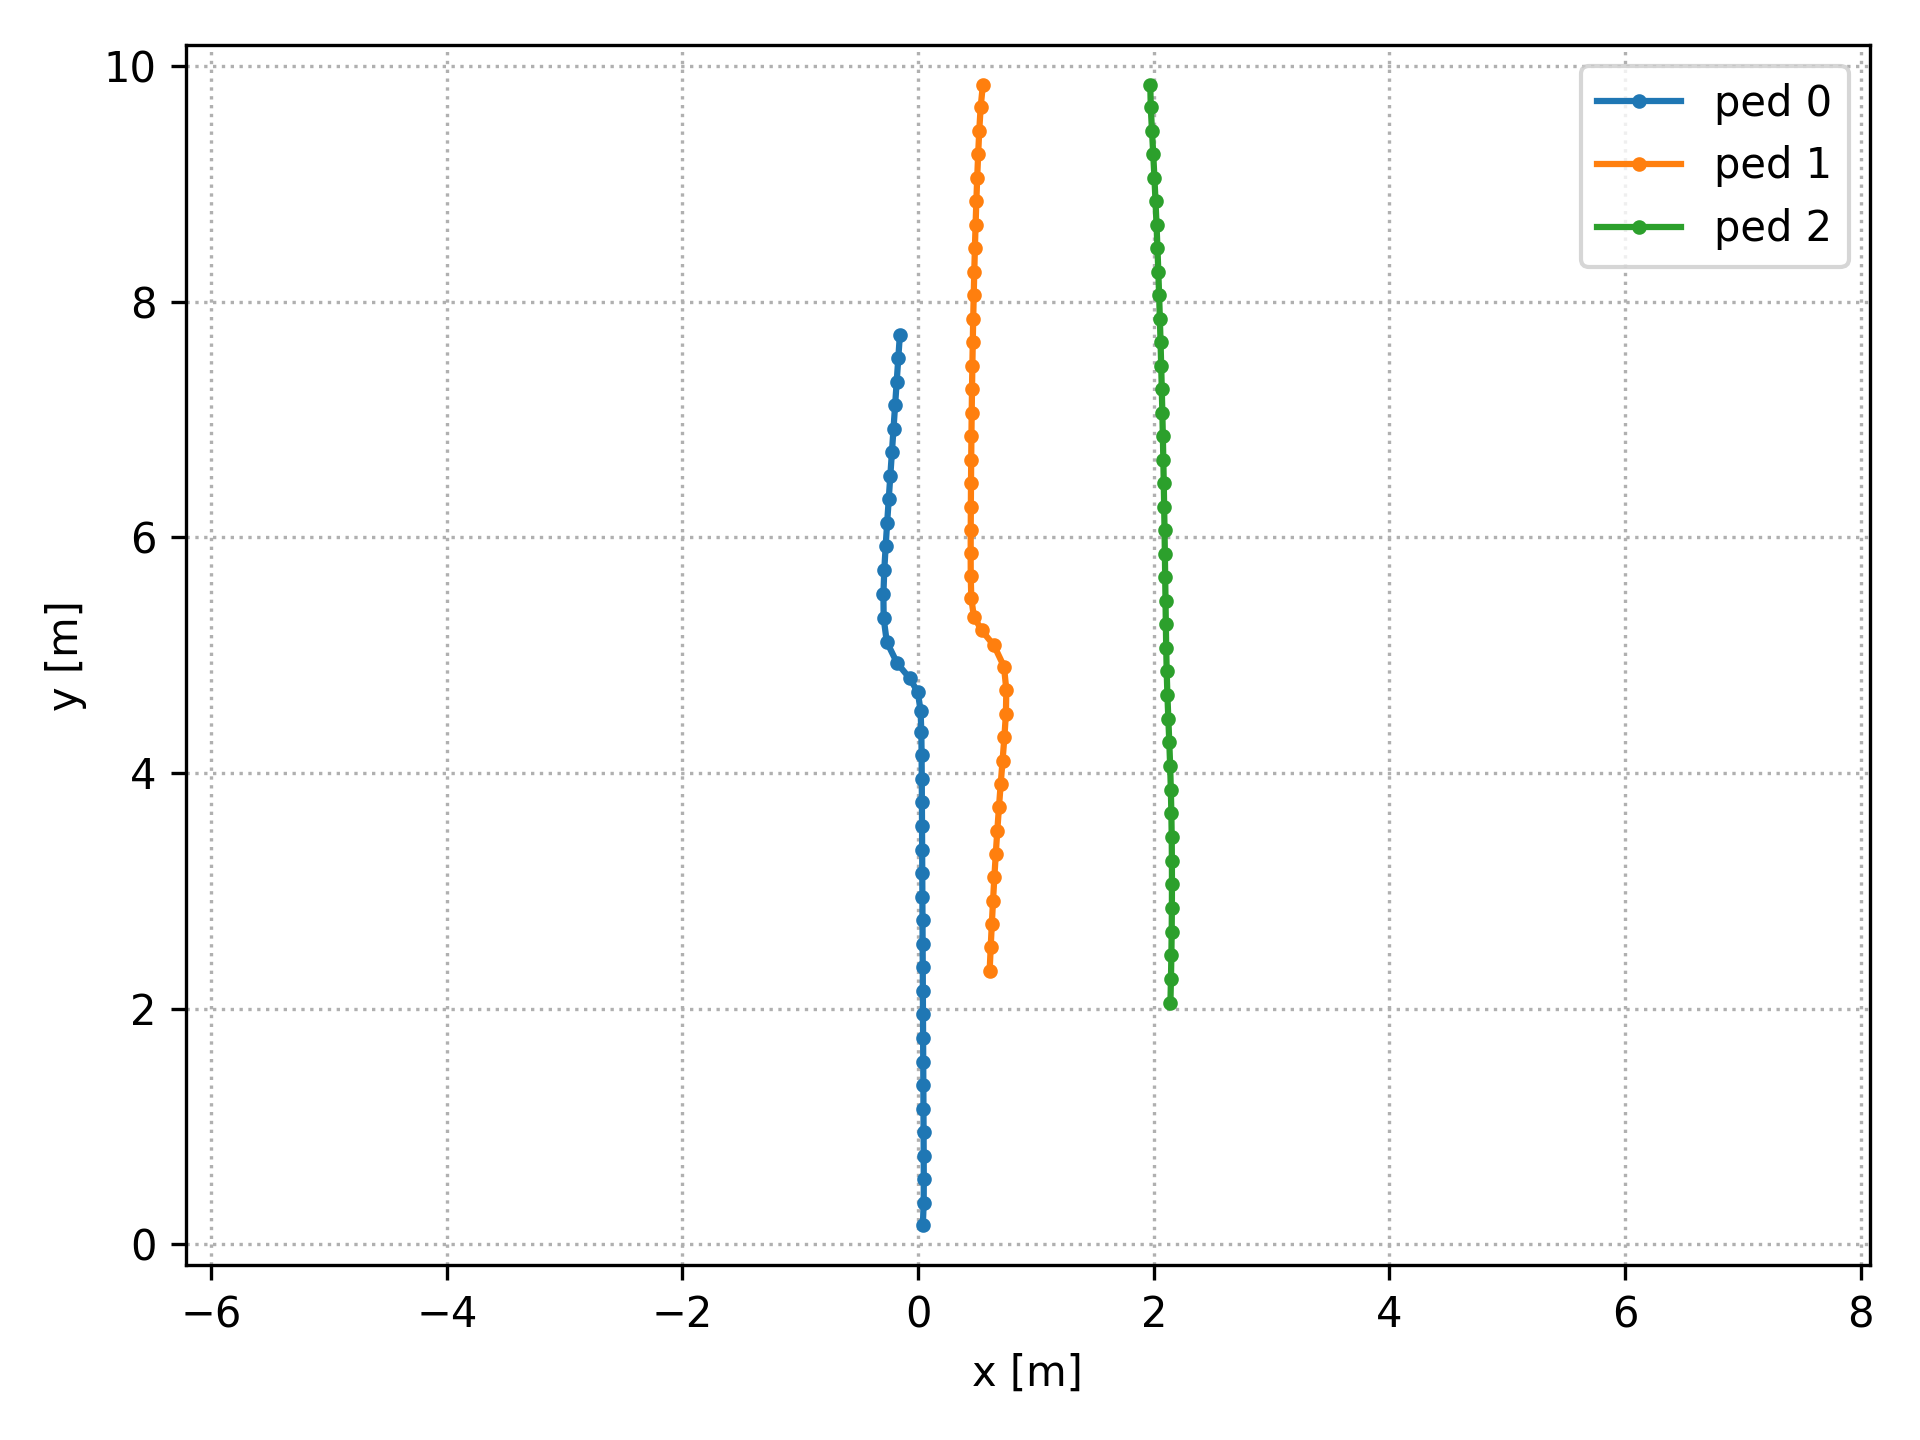
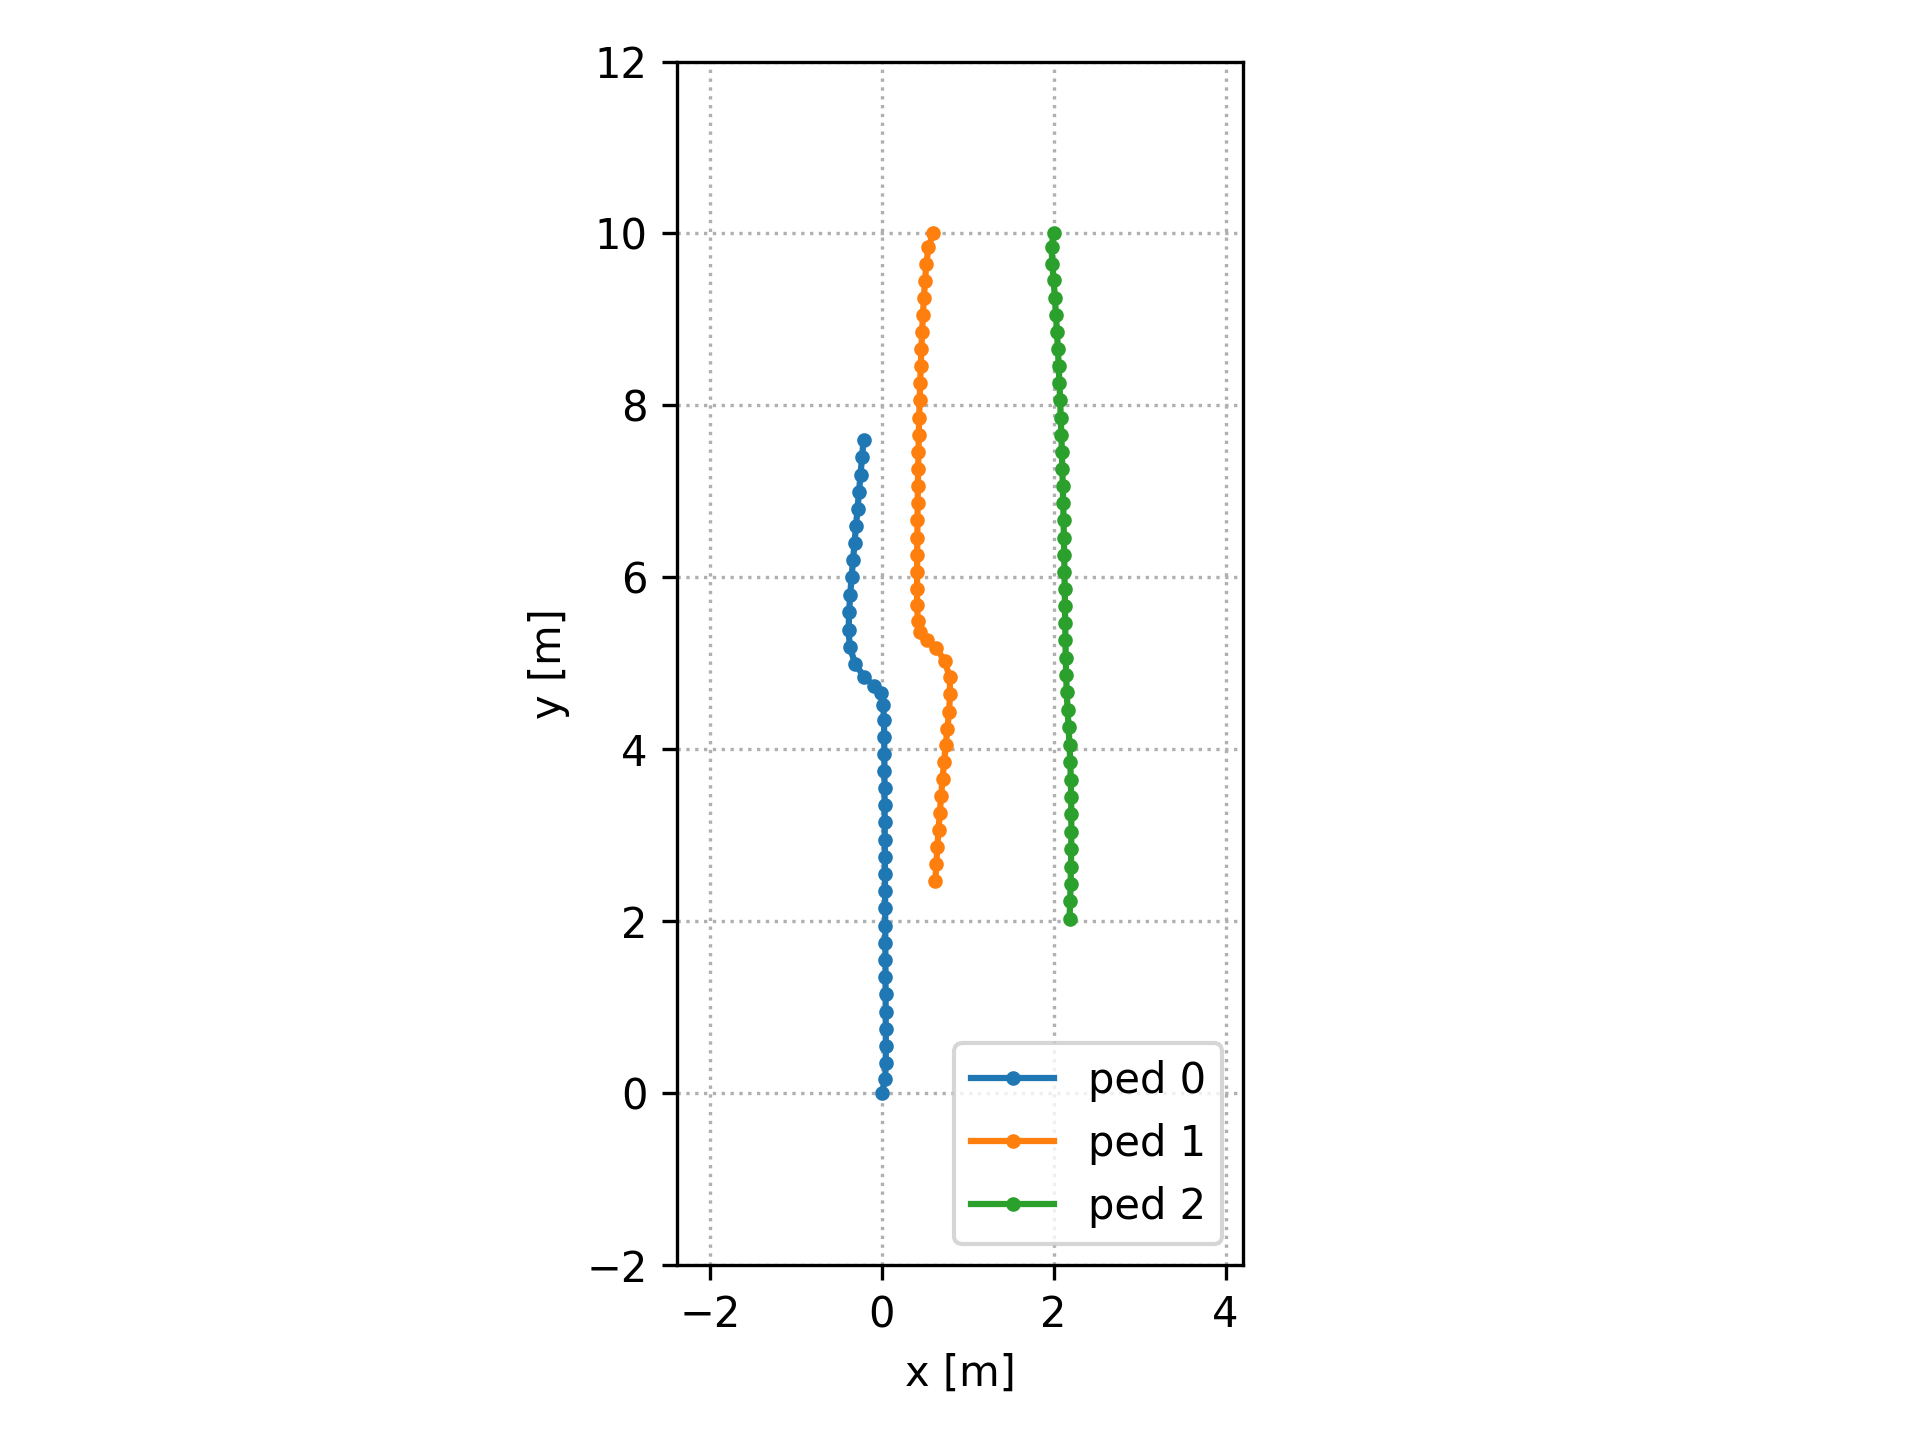
:memo: Update tests and doc images

diff --git a/tests/scenarios_pedpedspace.py b/tests/scenarios_pedpedspace.py
@@ -1,64 +1,21 @@
-from contextlib import contextmanager
-import numpy as np
 import pytest
+import numpy as np
 import pysocialforce as psf
+from pysocialforce.utils.plot import SceneVisualizer
 
 OUTPUT_DIR = "images/"
 
 
-@contextmanager
-def visualize(states, space, output_filename):
-    import matplotlib.pyplot as plt
-    import matplotlib.animation as animation
-
-    print("")
-    with psf.show.animation(len(states), output_filename, writer="imagemagick") as context:
-        ax = context["ax"]
-        ax.set_xlabel("x [m]")
-        ax.set_ylabel("y [m]")
-
-        yield ax
-
-        for s in space:
-            ax.plot(s[:, 0], s[:, 1], "-o", color="black", markersize=2.5)
-
-        actors = []
-        for ped in range(states.shape[1]):
-            speed = np.linalg.norm(states[0, ped, 2:4])
-            radius = 0.2 + speed / 2.0 * 0.3
-            p = plt.Circle(
-                states[0, ped, 0:2],
-                radius=radius,
-                facecolor="black" if states[0, ped, 4] > 0 else "white",
-                edgecolor="black",
-            )
-            actors.append(p)
-            ax.add_patch(p)
-
-        def update(i):
-            for ped, p in enumerate(actors):
-                # p.set_data(states[i:i+5, ped, 0], states[i:i+5, ped, 1])
-                p.center = states[i, ped, 0:2]
-                speed = np.linalg.norm(states[i, ped, 2:4])
-                p.set_radius(0.2 + speed / 2.0 * 0.3)
-
-        context["update_function"] = update
-
-
-@pytest.mark.plot
 def test_separator():
     initial_state = np.array([[-10.0, -0.0, 1.0, 0.0, 10.0, 0.0],])
     obstacles = [(-1, 4, -1, 4)]
     s = psf.Simulator(initial_state, obstacles=obstacles)
     s.step(80)
-    states = s.get_states()
 
-    # visualize
-    with visualize(states, s.scene.obstacles, OUTPUT_DIR + "separator.gif") as ax:
-        ax.set_xlim(-10, 10)
+    with SceneVisualizer(s.scene, OUTPUT_DIR + "separator") as sv:
+        sv.animate()
 
 
-@pytest.mark.plot
 def test_gate():
     initial_state = np.array(
         [
@@ -77,10 +34,8 @@ def test_gate():
     obstacles = [(0, 0, -10, -0.7), (0, 0, 0.7, 10)]
     s = psf.Simulator(initial_state, obstacles=obstacles)
     s.step(150)
-    states = s.get_states()
-
-    with visualize(states, s.scene.obstacles, OUTPUT_DIR + "gate.gif") as _:
-        pass
+    with SceneVisualizer(s.scene, OUTPUT_DIR + "gate") as sv:
+        sv.animate()
 
 
 @pytest.mark.parametrize("n", [30, 60])
@@ -103,17 +58,8 @@ def test_walkway(n):
 
     obstacles = [(-25, 25, 5, 5), (-25, 25, -5, -5)]
     s = psf.Simulator(initial_state, obstacles=obstacles)
-    states = []
     s.step(250)
-    states = s.get_states()
-    # for _ in range(250):
-    #     state = s.step().peds.state
-    #     # periodic boundary conditions
-    #     # state[state[:, 0] > 25, 0] -= 50
-    #     # state[state[:, 0] < -25, 0] += 50
-
-    #     states.append(state.copy())
-    # states = np.stack(states)
-
-    with visualize(states, s.scene.obstacles, OUTPUT_DIR + "walkway_{}.gif".format(n)) as _:
-        pass
+    with SceneVisualizer(s.scene, OUTPUT_DIR + f"walkway_{n}") as sv:
+        sv.ax.set_xlim(-30, 30)
+        sv.ax.set_ylim(-20, 20)
+        sv.animate()

diff --git a/tests/scenarios_pedped.py b/tests/scenarios_pedped.py
@@ -1,5 +1,6 @@
 import numpy as np
 import pysocialforce as psf
+from pysocialforce.utils.plot import SceneVisualizer
 
 OUTPUT_DIR = "images/"
 
@@ -8,57 +9,25 @@ def test_crossing():
     initial_state = np.array([[0.0, 0.0, 0.5, 0.5, 10.0, 10.0], [10.0, 0.3, -0.5, 0.5, 0.0, 10.0],])
     s = psf.Simulator(initial_state)
     s.step(50)
-    states = s.get_states()
 
-    # visualize
-    print("")
-    with psf.show.canvas(OUTPUT_DIR + "crossing.png") as ax:
-        ax.set_xlabel("x [m]")
-        ax.set_ylabel("y [m]")
-
-        for ped in range(2):
-            x = states[:, ped, 0]
-            y = states[:, ped, 1]
-            ax.plot(x, y, "-o", label="ped {}".format(ped), markersize=2.5)
-        ax.legend()
+    with SceneVisualizer(s.scene, OUTPUT_DIR + "crossing") as sv:
+        sv.plot()
 
 
 def test_narrow_crossing():
     initial_state = np.array([[0.0, 0.0, 0.5, 0.5, 2.0, 10.0], [2.0, 0.3, -0.5, 0.5, 0.0, 10.0],])
     s = psf.Simulator(initial_state)
     s.step(40)
-    states = s.get_states()
-
-    # visualize
-    print("")
-    with psf.show.canvas(OUTPUT_DIR + "narrow_crossing.png") as ax:
-        ax.set_xlabel("x [m]")
-        ax.set_ylabel("y [m]")
-
-        for ped in range(2):
-            x = states[:, ped, 0]
-            y = states[:, ped, 1]
-            ax.plot(x, y, "-o", label="ped {}".format(ped), markersize=2.5)
-        ax.legend()
+    with SceneVisualizer(s.scene, OUTPUT_DIR + "narrow_crossing") as sv:
+        sv.plot()
 
 
 def test_opposing():
     initial_state = np.array([[0.0, 0.0, 1.0, 0.0, 0.0, 10.0], [-0.3, 10.0, -1.0, 0.0, -0.3, 0.0],])
     s = psf.Simulator(initial_state)
     s.step(21)
-    states = s.get_states()
-
-    # visualize
-    print("")
-    with psf.show.canvas(OUTPUT_DIR + "opposing.png") as ax:
-        ax.set_xlabel("x [m]")
-        ax.set_ylabel("y [m]")
-
-        for ped in range(2):
-            x = states[:, ped, 0]
-            y = states[:, ped, 1]
-            ax.plot(x, y, "-o", label="ped {}".format(ped), markersize=2.5)
-        ax.legend()
+    with SceneVisualizer(s.scene, OUTPUT_DIR + "opposing") as sv:
+        sv.plot()
 
 
 def test_2opposing():
@@ -71,16 +40,5 @@ def test_2opposing():
     )
     s = psf.Simulator(initial_state)
     s.step(40)
-    states = s.get_states()
-
-    # visualize
-    print("")
-    with psf.show.canvas(OUTPUT_DIR + "2opposing.png") as ax:
-        ax.set_xlabel("x [m]")
-        ax.set_ylabel("y [m]")
-
-        for ped in range(3):
-            x = states[:, ped, 0]
-            y = states[:, ped, 1]
-            ax.plot(x, y, "-o", label="ped {}".format(ped), markersize=2.5)
-        ax.legend()
+    with SceneVisualizer(s.scene, OUTPUT_DIR + "2opposing") as sv:
+        sv.plot()

diff --git a/pysocialforce/utils/plot.py b/pysocialforce/utils/plot.py
@@ -114,17 +114,6 @@ class SceneVisualizer:
     def animate(self):
         """Main method to create animation"""
 
-        # x, y limit from states, only for animation
-        margin = 2.0
-        xy_limits = np.array(
-            [minmax(state) for state in self.states]
-        )  # (x_min, y_min, x_max, y_max)
-        xy_min = np.min(xy_limits[:, :2]) - margin
-        xy_max = np.max(xy_limits[:, 2:4]) + margin
-        logger.debug(xy_min)
-        logger.debug(xy_max)
-        self.ax.set(xlim=(xy_min, xy_max), ylim=(xy_min, xy_max))
-
         self.ani = mpl_animation.FuncAnimation(
             self.fig,
             init_func=self.animation_init,
@@ -133,17 +122,13 @@ class SceneVisualizer:
             blit=True,
         )
 
-        # recompute the ax.dataLim
-        self.ax.relim()
-        # update ax.viewLim using the new dataLim
-        self.ax.autoscale_view()
         return self.ani
 
     def __enter__(self):
         logger.info("Start plotting.")
         self.fig.set_tight_layout(True)
         self.ax.grid(linestyle="dotted")
-        self.ax.set_aspect("equal", "datalim")
+        self.ax.set_aspect("equal")
         self.ax.margins(2.0)
         self.ax.set_axisbelow(True)
         self.ax.set_xlabel("x [m]")
@@ -151,6 +136,19 @@ class SceneVisualizer:
 
         plt.rcParams["animation.html"] = "jshtml"
 
+        # x, y limit from states, only for animation
+        margin = 2.0
+        xy_limits = np.array(
+            [minmax(state) for state in self.states]
+        )  # (x_min, y_min, x_max, y_max)
+        xy_min = np.min(xy_limits[:, :2], axis=0) - margin
+        xy_max = np.max(xy_limits[:, 2:4], axis=0) + margin
+        self.ax.set(xlim=(xy_min[0], xy_max[0]), ylim=(xy_min[1], xy_max[1]))
+
+        # # recompute the ax.dataLim
+        # self.ax.relim()
+        # # update ax.viewLim using the new dataLim
+        # self.ax.autoscale_view()
         return self
 
     def __exit__(self, exception_type, exception_value, traceback):
@@ -181,7 +179,8 @@ class SceneVisualizer:
         if self.human_actors:
             for i, human in enumerate(self.human_actors):
                 human.center = current_state[i, :2]
-                human.set_radius(radius[i])
+                human.set_radius(0.2)
+                # human.set_radius(radius[i])
         else:
             self.human_actors = [
                 Circle(pos, radius=r) for pos, r in zip(current_state[:, :2], radius)

diff --git a/tests/scenarios_groups.py b/tests/scenarios_groups.py
@@ -1,7 +1,6 @@
 import numpy as np
 import pysocialforce as psf
-from contextlib import contextmanager
-import matplotlib.cm as cm
+from pysocialforce.utils.plot import SceneVisualizer
 
 OUTPUT_DIR = "images/"
 
@@ -18,58 +17,9 @@ def test_group_crossing():
         ]
     )
     groups = [[0, 1], [2, 3, 4]]
-    colors = cm.rainbow(np.linspace(0, 1, len(groups)))
-    s = psf.Simulator(initial_state, groups=groups)
+    obs = [[4, 4, 2, 5]]
+    s = psf.Simulator(initial_state, groups=groups, obstacles=obs)
     s.step(80)
-    states = s.get_states()
 
-    with psf.show.canvas(OUTPUT_DIR + "group_crossing.png") as ax:
-        ax.set_xlabel("x [m]")
-        ax.set_ylabel("y [m]")
-
-        for i, group in enumerate(groups):
-            color = colors[i]
-            for ped in group:
-                x = states[:, ped, 0]
-                y = states[:, ped, 1]
-                ax.plot(x, y, "-o", label="ped {}".format(ped), markersize=2.5, color=color)
-        ax.legend()
-
-
-@contextmanager
-def visualize(states, space, output_filename):
-    import matplotlib.pyplot as plt
-    import matplotlib.animation as animation
-
-    print("")
-    with psf.show.animation(len(states), output_filename, writer="imagemagick") as context:
-        ax = context["ax"]
-        ax.set_xlabel("x [m]")
-        ax.set_ylabel("y [m]")
-
-        yield ax
-
-        for s in space:
-            ax.plot(s[:, 0], s[:, 1], "-o", color="black", markersize=2.5)
-
-        actors = []
-        for ped in range(states.shape[1]):
-            speed = np.linalg.norm(states[0, ped, 2:4])
-            radius = 0.2 + speed / 2.0 * 0.3
-            p = plt.Circle(
-                states[0, ped, 0:2],
-                radius=radius,
-                facecolor="black" if states[0, ped, 4] > 0 else "white",
-                edgecolor="black",
-            )
-            actors.append(p)
-            ax.add_patch(p)
-
-        def update(i):
-            for ped, p in enumerate(actors):
-                # p.set_data(states[i:i+5, ped, 0], states[i:i+5, ped, 1])
-                p.center = states[i, ped, 0:2]
-                speed = np.linalg.norm(states[i, ped, 2:4])
-                p.set_radius(0.2 + speed / 2.0 * 0.3)
-
-        context["update_function"] = update
+    with SceneVisualizer(s.scene, OUTPUT_DIR + "group_crossing") as sv:
+        sv.animate()

diff --git a/tests/test_forces.py b/tests/test_forces.py
@@ -3,7 +3,7 @@ import pytest
 
 from pysocialforce import forces
 from pysocialforce.scene import Scene, PedState
-from pysocialforce.config import DefaultConfig
+from pysocialforce.utils import DefaultConfig
 
 
 @pytest.fixture()
